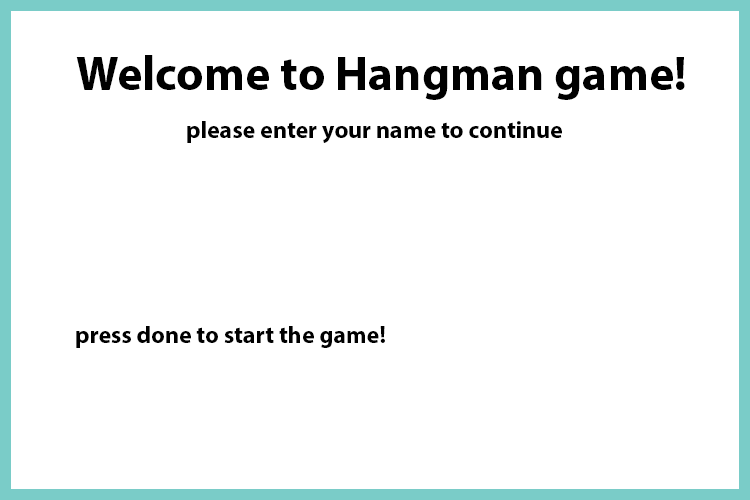
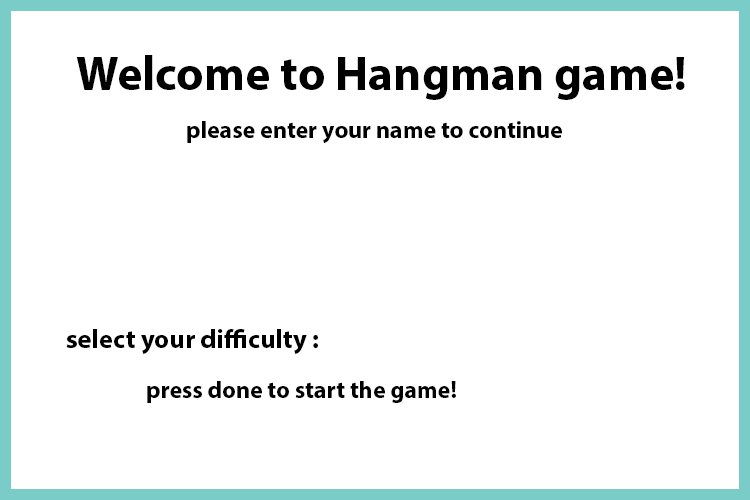
refined code and added comments

Changed region(s): [[0.184, 0.75, 0.6133, 0.81], [0.092, 0.66, 0.5213, 0.72]]

diff --git a/core.py b/core.py
@@ -30,7 +30,7 @@ def display_secret_word(secret_word1):
         else:
             code += "-"
     for char in code:
-        secret_word_buttons.append(Button((255, 255, 255), posx, posy, 25, 30, text=char))
+        secret_word_buttons.append(Button((179, 220, 216), posx, posy, 25, 30, text=char))
         posx += 35
 
 
@@ -84,12 +84,16 @@ def initialize_game():
             posy += 50
             posx = 120
         letter_buttons.append(Button((255, 255, 255), posx, posy, 30, 30, button_values[i]))
-    # selecting a random secret word and category its from
+
+    # choosing a random category and a word from that category from that category
     secret_word, category = vocab.choose_word()
     print(secret_word)
 
-    # resetting the tries user has
-    tries = 10
+    # based upon the difficulty the tries or guesses left is stored
+    if difficulty == "hard":
+        tries = 7
+    else:
+        tries = 10
 
     # resetting the image to welcome image
     image = hangman_images["idle"]
@@ -132,7 +136,7 @@ def end_game():
 
 # noinspection PyShadowingNames
 def start_menu():
-    global start, name
+    global start, name, difficulty
     posx = 80
     posy = 170
     for i in range(1, 27):
@@ -141,7 +145,9 @@ def start_menu():
             posy += 50
             posx = 120
         letter_buttons.append(Button((255, 255, 255), posx, posy, 30, 30, button_values[i]))
-    done = Button((179, 220, 216), posx-150, posy+100, 60, 30, "DONE")
+    done = Button((179, 220, 216), posx-120, posy+156, 60, 30, "DONE")
+    easy = Button((179, 220, 216), 350, posy + 105, 60, 30, "Easy")
+    hard = Button((179, 220, 216), 450, posy + 105, 60, 30, "Hard")
     display_name = Button((255, 255, 255), posx-400, posy+60, 200, 30, " player name : ")
     bg = pygame.image.load("assets/start_screen.png")
 
@@ -154,22 +160,54 @@ def start_menu():
             else:
                 obj.draw(win)
         done.draw(win)
+        easy.draw(win)
+        hard.draw(win)
         display_name.update_text(" player name : " + str(name))
         display_name.draw(win)
 
-    while True:
+    while True:     # main loop
+
+        # quits thw game wen close is pressed
         for event in pygame.event.get():
             if event.type == pygame.QUIT:
                 end_game()
+
+            # button mechanics for difficulty done buttons
             if done.is_over(pygame.mouse.get_pos()):
                 if event.type == pygame.MOUSEBUTTONDOWN:
                     return
+            if easy.is_over(pygame.mouse.get_pos()):
+                if event.type == pygame.MOUSEBUTTONDOWN:
+                    difficulty = "easy"
+            if hard.is_over(pygame.mouse.get_pos()):
+                if event.type == pygame.MOUSEBUTTONDOWN:
+                    difficulty = "hard"
+
+            # hover functionality for those buttons
+            if easy.is_over(pygame.mouse.get_pos()):
+                easy.update_color((200, 240, 240))
+            else:
+                easy.update_color((179, 220, 216))
+
+            if hard.is_over(pygame.mouse.get_pos()):
+                hard.update_color((200, 240, 240))
+            else:
+                hard.update_color((179, 220, 216))
+
+            if done.is_over(pygame.mouse.get_pos()):
+                done.update_color((200, 240, 240))
+            else:
+                done.update_color((179, 220, 216))
+
+            # hover functionality for letter buttons
             for button in letter_buttons:
                 if button.is_over(pygame.mouse.get_pos()):
                     if not button.guessed:
                         button.update_color((179, 220, 216))
                 else:
                     button.update_color((255, 255, 255))
+
+            # mechanism of letter buttons
             for button in letter_buttons:
                 if button.is_over(pygame.mouse.get_pos()):
                     if event.type == pygame.MOUSEBUTTONDOWN:
@@ -192,24 +230,17 @@ secret_word_buttons = []
 # list that stores the letters guessed by the user that do exist in the word
 correct_letters_guessed = []
 
-# run == True >> game runs;     run == False >> game doesnt run
 run, start = True, True
-name = ""
+name, difficulty, tries = "", "", 0
+secret_word, category = "", ""
+score = 0
 
-# based upon the difficulty the tries or guesses left is stored
-tries = 10
-
-# choosing a random category and a word from that category from that category
-secret_word, category = vocab.choose_word()
-
-# button initialisation
+# these are not actually buttons i have used objects of button class to display variables (text) on screen
+# because, it makes it a lot simpler and more productive
 tries_left_button = Button((255, 255, 255), 20, 200, 200, 30, "tries  left : " + str(tries) + "  ")
 category_button = Button((255, 255, 255), 20, 150, 200, 30, "category : " + category)
 welcome_player = Button((255, 255, 255), 20, 120, 200, 30, "welcome, " + name)
 
-
-# starting the game
-# initialize_game()
 
 start_menu()
 initialize_game()
@@ -244,20 +275,26 @@ while run:
                             letter = button_values[letter_buttons.index(button)+1]
                             # registering click of the button
 
-                            if letter in secret_word and letter not in correct_letters_guessed:
+                            if letter in secret_word and letter not in correct_letters_guessed:     # correct guess
                                 correct_letters_guessed.append(letter)
                                 image = hangman_images["correct"]
 
-                            display_secret_word(secret_word)
+                                # increasing the score of the player after every correct guess
+                                if difficulty == "easy":
+                                    score += 70
+                                else:
+                                    score += 100
 
-                            if letter not in secret_word:
+                            display_secret_word(secret_word)  # updating the secret word on screen
+
+                            if letter not in secret_word:       # wrong guess
                                 tries -= 1
                                 image = hangman_images["wrong"]
 
                             if word_guessed(secret_word, correct_letters_guessed):
-                                tries = -1
+                                tries = -1      # exits us out of the loop thus ending the game
                                 image = hangman_images["won"]
-                                # exits us out of the loop thus ending the game
+                                score += 250
 
                             button.guessed = True
         redraw_game_window()

diff --git a/vocab.py b/vocab.py
@@ -11,7 +11,7 @@ music = ["music", "rock", "country", "rap", "fuzz", "metal", "folk", "riff", "ch
 instruments = ["instruments", "tuba", "guitar", "bass", "harmonica", "violin", "cello", "piano", "drums", "trombone", "saxophone"]
 household = ["household", "phone", "kitchen", "closet", "room", "curtains", "carpet", "attic", "basement", "garage", "driveway"]
 history = ["history", "medieval", "ancient", "ruins"]
-technology = ["technology", "phone", "wire", "gate", "signal", "antenna", "display"]
+technology = ["technology", "phone", "wire", "signal", "antenna", "display"]
 fantasy = ["fantasy", "dragon", "princess", "sword", "magic", "dungeon", "goblin", "elf", "orc", "hobbit", "unicorn"]
 gaming = ["gaming", "role", "shooter", "strategy", "simulation", "sandbox", "tactical", "steam", "twitch", "indie"]
 school = ["school", "pencil", "paper", "textbook", "teacher", "lunch", "locker", "backpack", "grades", "finals"]
